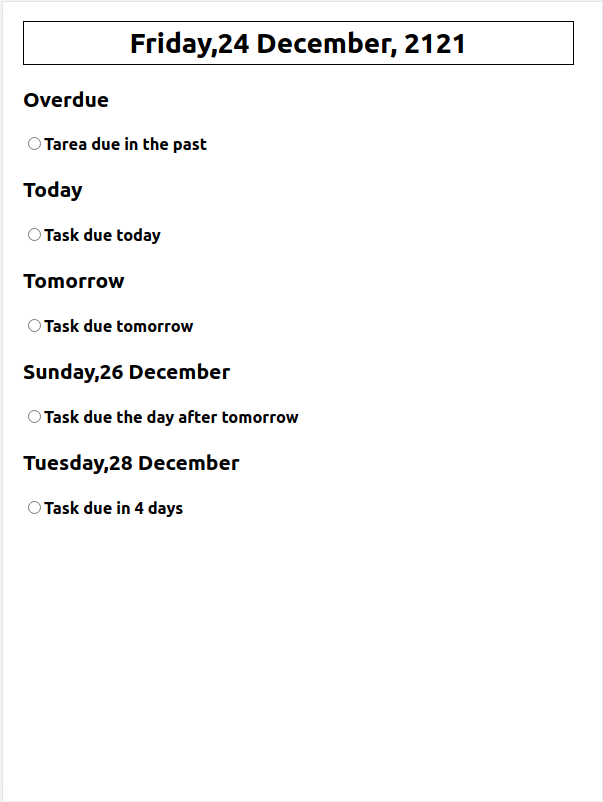
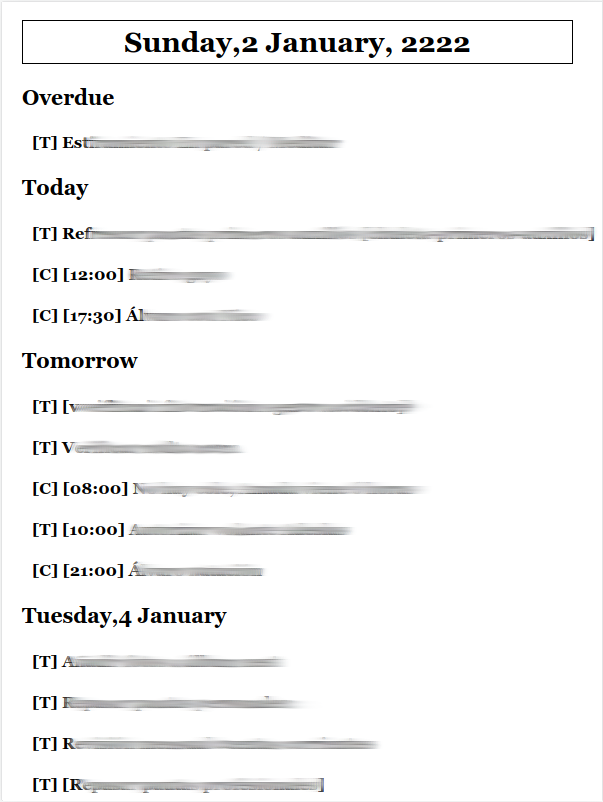
update README, new setting for link filtering

diff --git a/app/Http/Controllers/Controller.php b/app/Http/Controllers/Controller.php
@@ -62,13 +62,18 @@ class Controller extends BaseController
         if (env('TODOIST_ENABLED',False)){
             foreach ($elements as $element){           
 
-                // Filter tasks removing links (it makes the task too long for the kindle screen)
-                $content = preg_replace('/\b(https?|ftp|file):\/\/[-A-Z0-9+&@#\/%?=~_|$!:,.;]*[A-Z0-9+&@#\/%=~_|$]/i', '', $element['content']);
+                if (env('TODOIST_REMOVE_LINKS',True)){
+                    // Filter tasks removing links (it makes the task too long for the kindle screen)
+                    $content = preg_replace('/\b(https?|ftp|file):\/\/[-A-Z0-9+&@#\/%?=~_|$!:,.;]*[A-Z0-9+&@#\/%=~_|$]/i', '', $element['content']);
 
-                if (strpos($content,']()') !== false ){
-                    // The ']()' string was found, so it was a link with text. Remove clutter
-                    $content = str_replace(']()',']',$content);
+                    if (strpos($content,']()') !== false ){
+                        // The ']()' string was found, so it was a link with text. Remove clutter
+                        $content = str_replace(']()',']',$content);
+                    }
+                }else{
+                    $content = $element['content'];
                 }
+                
 
                 $elementAsCollection = collect();
 

diff --git a/README.md b/README.md
@@ -1,6 +1,6 @@
 # productivity-dashboard
 
-Just a simple PHP/Laravel app that retrieves (so far) tasks from Todoist and displays them in a simple view designed for a Kindle Touch.
+Just a simple PHP/Laravel app that retrieves tasks (from Todoist) and events (from Google Calendar) and displays them in a simple view designed for a Kindle Touch.
 
 All the settings are configured in the .env file (check .env-sample).
 
@@ -8,22 +8,32 @@ All the settings are configured in the .env file (check .env-sample).
 
 ![](resources/img/index.png)
 
-## Features
+The elements will show a [C] or a [T] prefix to indicate if the element is a task or a calendar event
 
-### Todoist specific
+## Todoist settings
 
-You can customize the filter (TODOIST_FILTER) used in the API call.
+* Enable the integration with TODOIST_ENABLED and TODOIST_API_KEY
+* Customize the filter (TODOIST_FILTER) used in the API call.
+* Add the hour to taks with hour (TODOIST_ADD_HOUR_TO_TASK)
+* Remove links to avoid clutter with TODOIST_REMOVE_LINKS
 
-### Group by date
+## Google Calendar settings
 
-The elements are grouped in for type of elements:
+* Enable the integration with GCAL_ENABLED and specify your calendars in GCAL_CALENDARS_IDS, GCAL_DEFAULT_CALENDAR_ID
+* The integration works with GOOGLE_CALENDAR_AUTH_PROFILE=service_account
+* Follow the instrucctions in https://github.com/spatie/laravel-google-calendar#how-to-obtain-the-credentials-to-communicate-with-google-calendar
+* Store your JSON credentials file in storage/app/google-calendar/service-account-credentials.json
+
+## Group by date
+
+The elements (events and/or taks)  are grouped in for type of elements:
 
 - Overdue elements.
 - Elements due today.
 - Elements due tomorrow
 - The rest
 
-You can customize (localize) the keyword applied to every category of element:
+You can customize (localize) the header mask (APP_DATE_HEADER_MASK) and the keywords applied to every category of elements:
 
 * APP_LOCALE_OVERDUE
 * APP_LOCALE_TODAY
@@ -40,9 +50,13 @@ You can customize (localize) the keyword applied to every category of element:
 
 I use this app with a jailbroken Kindle Touch + KUAL + Weblaunch.
 
+## Troubleshooting / Tips
+
+* In my experience, when REFRESH_RATE_IN_SECONDS the WebLaunch browser crashes pretty often. I use REFRESH_RATE_IN_SECONDS=3600 and I have to manually relaunch the dashbord every couple of days or so.
+
+
 ## TODO
 
 - Make the elements clickable so todoist tasks can be completed.
-- Add Google Calendar support
 - Prettier UI
 - Propper localization
